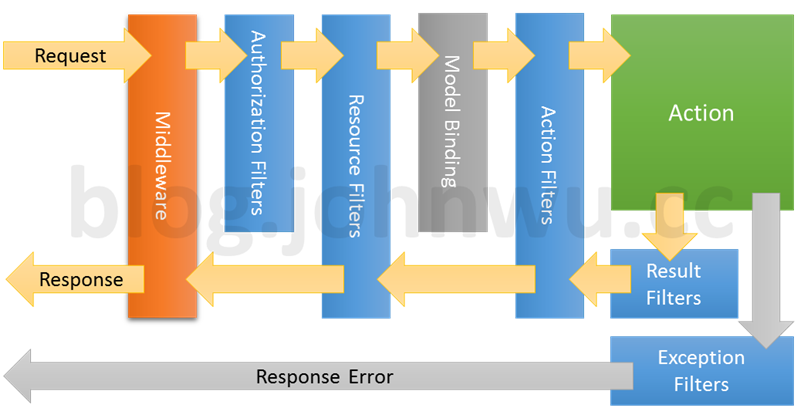
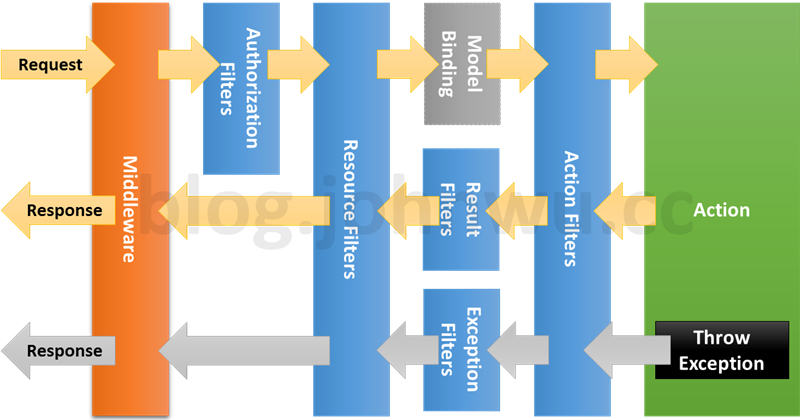
Update posts

diff --git a/source/_posts/asp-net-core-filters.md b/source/_posts/asp-net-core-filters.md
@@ -262,10 +262,16 @@ namespace MyWebsite.Controllers
     [TypeFilter(typeof(AuthorizationFilter))]
     public class HomeController : Controller
     {
-        [MiddlewareFilter(typeof(ActionFilter))]
+        [TypeFilter(typeof(ActionFilter))]
         public void Index()
         {
             Response.WriteAsync("Hello World! \r\n");
+        }
+        
+        [TypeFilter(typeof(ActionFilter))]
+        public void Error()
+        {
+            throw new System.Exception("Error");
         }
     }
 }
